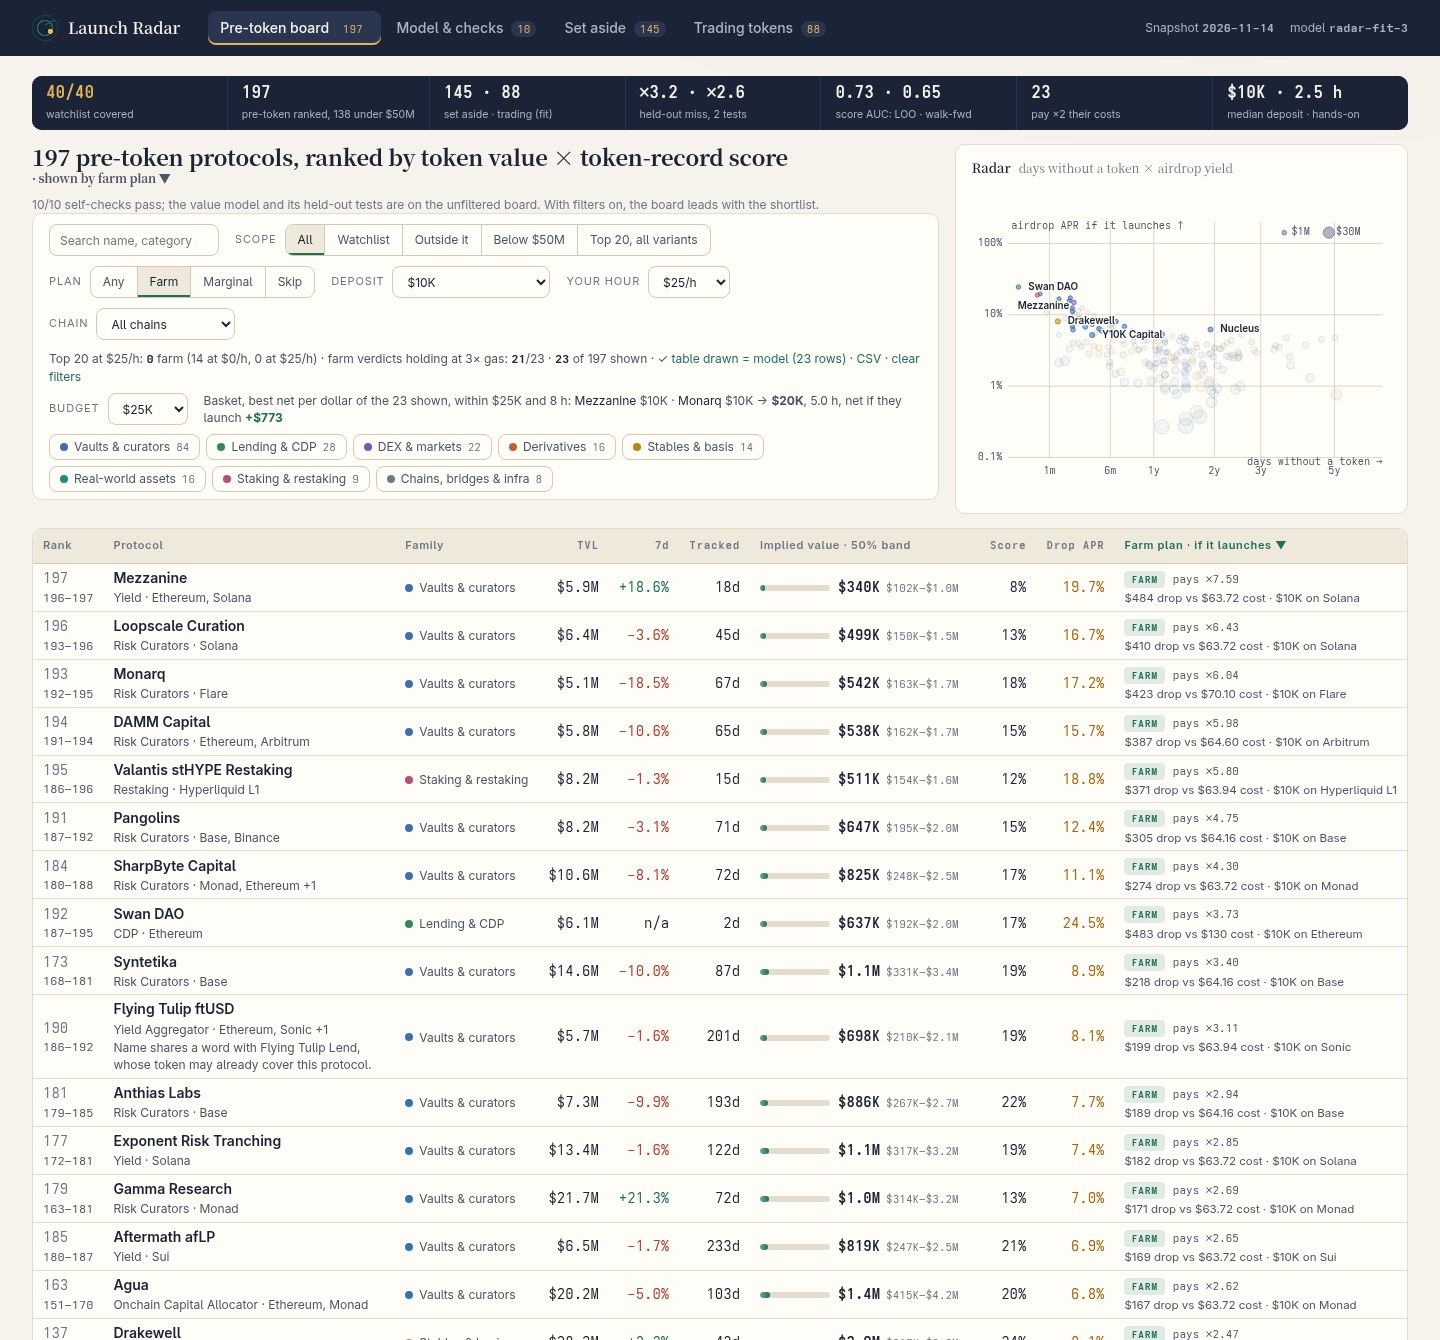
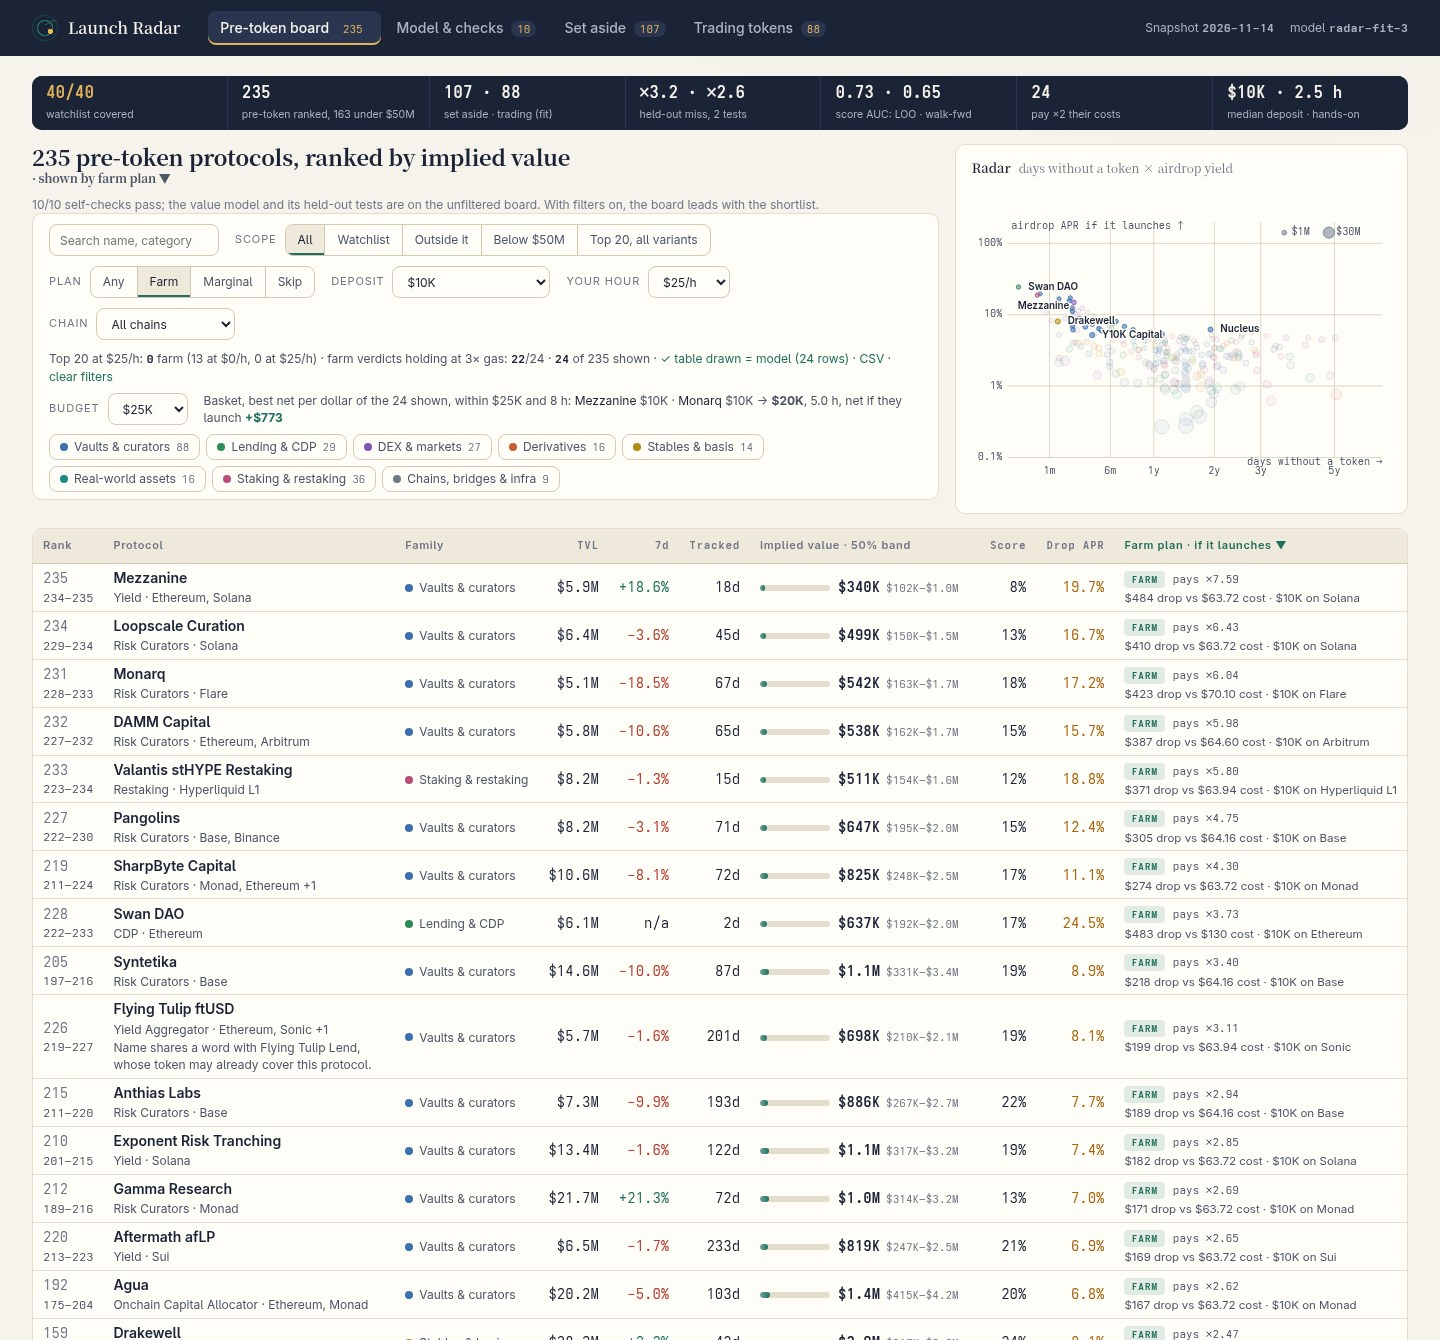
Coverage 2: rank liquid-staking/restaking issuers and versioned pools (the house rule sets them aside; fits unchanged) with a disclosed x0.65 haircut and a flag; 235 ranked, 163 below the floor

diff --git a/dashboard/model.js b/dashboard/model.js
@@ -5,18 +5,19 @@
  var DAY = 86400000;
  var M = {
   version: 'radar-fit-3',
-  ref_tvl: 1e8, // fit reference TVL
+  ref_tvl: 1e8,
   ratio_floor: 0.02, // mcap/TVL clipping
   ratio_cap: 20,
-  growth_floor: -30, // 7-day momentum clipping (%)
+  growth_floor: -30,
   growth_cap: 50,
-  odds_ridge: 1, // L2 penalty of the odds fit: best-calibrated walk-forward of the leave-one-out ties
-  drop_share: 0.10, // assumed share of supply sent to depositors, pro rata to TVL-days
-  farm_days: 90, // the plan's holding window
-  hour_usd: 25, // the reader's hands-on time, priced into every plan
-  carry_rate: 0.04, // a stablecoin savings rate: what the locked capital could earn elsewhere
-  target_cover: 2, // deposit sized so the drop covers gas and time this many times
-  season_days: 365 // TVL-days older than this count as paid by earlier seasons
+  odds_ridge: 1,
+  drop_share: 0.10, // depositor share by TVL-days
+  farm_days: 90,
+  hour_usd: 25,
+  carry_rate: 0.04,
+  target_cover: 2,
+  season_days: 365,
+  product_haircut: 0.65
  };
 
  var FAMILIES = [], FAM_OF = {}, GAS = {}, GAS0 = 0.3, ACT = {};
@@ -35,25 +36,29 @@
   var d = Math.floor((Date.parse(asOf + 'T00:00:00Z') - Date.parse(listed + 'T00:00:00Z')) / DAY);
   return isFinite(d) ? Math.max(0, d) : null;
  }
- // The watchlist's product rule.
- var PRODUCT_CATS = ['Bridge', 'Canonical Bridge', 'Liquid Staking', 'Liquid Restaking', 'Restaked BTC', 'CEX'];
- var VERSIONED = /\s(V\d+(\.\d+)?|v\d+(\.\d+)?|\d+\.\d+)$/;
+ var LIQUID = /^Liquid (Staking|Restaking)$/;
+ var VERSIONED = /\s([Vv]\d+(\.\d+)?|\d+\.\d+)$/;
  var WRAPPED = /\b(wrapped|staked|staking)\b/i;
  var EXCHANGE = /^(Binance|Coinbase|Bybit|Kraken|Bitget|OKX|Bitfinex|Gemini)\b/;
- // First-word matches flag possible token overlap on ranked rows.
  function firstWord(n) { return n.toLowerCase().split(/[\s.-]+/)[0]; }
  function tokenWords(snap) {
   var w = Object.create(null);
   snap.protocols.forEach((p) => { if (hasToken(p) && firstWord(p.name).length >= 3) w[firstWord(p.name)] = p.name; });
   return w;
  }
- function productOf(p) {
+ // The fits use the original product exclusions.
+ function productOf(p, forBoard) {
   if (p.category === 'CEX') return 'exchange';
-  if (PRODUCT_CATS.indexOf(p.category) >= 0 || /bridge/i.test(p.category || '')) return p.category.toLowerCase();
-  if (VERSIONED.test(p.name)) return 'versioned pool';
+  if (p.category === 'Restaked BTC' || /bridge/i.test(p.category || '') || (!forBoard && LIQUID.test(p.category))) return p.category.toLowerCase();
+  if (!forBoard && VERSIONED.test(p.name)) return 'versioned pool';
   if (WRAPPED.test(p.name)) return 'wrapped or staked';
   if (EXCHANGE.test(p.name)) return 'exchange product';
   return null;
+ }
+ function productFlag(p) {
+  if (LIQUID.test(p.category)) return 'liquid-staking issuer: its receipt token is not a governance token; a drop is less certain';
+  var base = p.name.replace(VERSIONED, '');
+  return base !== p.name ? 'a version of ' + base + ': may share its token' : '';
  }
  function bySlug(a, b) { return a.slug < b.slug ? -1 : a.slug > b.slug ? 1 : 0; }
 
@@ -82,7 +87,7 @@
   var full = fitPoints(pts, k);
   pts.forEach((q, i) => { q.fit = Math.round(predict(full, q)); q.loo = q.mcap / Math.exp(miss[i]); });
   var sorted = miss.slice().sort((u, v) => u - v);
-  // Band check: cut the 50% band on some tokens, count how many of the others it holds.
+  // Held-out coverage of the 50% band.
   var hold = (cal, te) => { cal = cal.slice().sort((u, v) => u - v); var a = quantile(cal, 0.25), b = quantile(cal, 0.75); return [te.filter((m) => m >= a && m <= b).length, te.length]; };
   var di = pts.map((q, i) => i).filter((i) => pts[i].p.listed_at).sort((i, j) => pts[i].p.listed_at < pts[j].p.listed_at ? -1 : pts[i].p.listed_at > pts[j].p.listed_at ? 1 : bySlug(pts[i].p, pts[j].p)), dc = Math.floor(di.length * 0.6);
   var bandWf = hold(di.slice(0, dc).map((i) => miss[i]), di.slice(dc).map((i) => miss[i]));
@@ -235,7 +240,7 @@
   return { b: b, all: all, fams: fams };
  }
 
- function value(p, fit, asOf, ageFallback) {
+ function value(p, fit, asOf, ageFallback, haircut) {
   var fam = fit.families[family(p)];
   var growth = clamp(p.change_7d == null ? 0 : p.change_7d, M.growth_floor, M.growth_cap);
   var tvlNext = p.tvl_usd * (1 + growth / 100);
@@ -244,12 +249,12 @@
   var age = ageDays(asOf, p.listed_at), ageUsed = age == null ? ageFallback : age;
   // Token-record score: share of similar peers recording a token today.
   var f0 = fit.odds.F(p, ageUsed), timeF = f0;
-  var implied = Math.max(1, Math.round(fitted * timeF));
+  var implied = Math.max(1, Math.round(fitted * timeF * haircut));
 
   // Drop APR: drop_share of the value over the season's dollar-days.
   var apr = fitted * M.drop_share / (tvlNext * (Math.min(ageUsed, M.season_days) + M.farm_days)) * 365;
   return { slope: fit.slope, family: fam.key, growth: growth, growth_imputed: p.change_7d == null,tvl_next: Math.round(tvlNext), fam_multiple: fam.multiple, size_mult: sizeMult,
-   fitted: Math.round(fitted), age: age, age_used: ageUsed, time_factor: timeF, f0: f0, implied: implied,
+   fitted: Math.round(fitted), age: age, age_used: ageUsed, time_factor: timeF, f0: f0, implied: implied, haircut: haircut,
    low: Math.round(implied * fit.band_low), high: Math.round(implied * fit.band_high), cap_high: Math.round(fitted * fit.band_high), multiple: implied / p.tvl_usd, apr: apr };
  }
 
@@ -266,9 +271,7 @@
 
  var WEEKLY = { dex: [0.0005, 1], deriv: [0.001, 2], predict: [0.01, 2], infra: [0, 2] };
 
- /* A farm plan from the row's own figures: steps with a dollar cost and a time each, on the cheapest of
- * its three main chains. */
- // hour: value of an hour; on: the reader's chain filter.
+ // Use the cheapest of the three main chains unless the reader selects one.
  function farmPlan(p, v, dep, hour, on) {
   var hr = hour == null ? M.hour_usd : hour;
   var main = p.chains.slice(0, 3), chain = main[0] || 'its main chain';
@@ -336,20 +339,20 @@
   snap.watchlist.forEach((s) => { watch[s] = true; });
   var noToken = snap.protocols.filter((p) => !hasToken(p) && p.tvl_usd > 0);
   var words = tokenWords(snap);
-  var pre = noToken.filter((p) => watch[p.slug] || !productOf(p));
-  var products = noToken.map((p) => ({ p: p, kind: productOf(p) })).filter((x) => x.kind && !watch[x.p.slug])
+  var pre = noToken.filter((p) => watch[p.slug] || !productOf(p, true));
+  var products = noToken.map((p) => ({ p: p, kind: productOf(p, true) })).filter((x) => x.kind && !watch[x.p.slug])
    .sort((a, b) => b.p.tvl_usd - a.p.tvl_usd || bySlug(a.p, b.p));
-  var ages = pre.map((p) => ageDays(snap.as_of, p.listed_at)).filter((a) => a != null).sort((a, b) => a - b);
+  var ages = pre.filter((p) => watch[p.slug] || !productOf(p)).map((p) => ageDays(snap.as_of, p.listed_at)).filter((a) => a != null).sort((a, b) => a - b);
   var ageFallback = ages.length ? ages[ages.length >> 1] : 365;
   var rows = pre.map((p) => {
-   var v = value(p, fit, snap.as_of, ageFallback);
-   return { p: p, v: v, plan: farmPlan(p, v), watch: !!watch[p.slug], below: p.tvl_usd < snap.floor_usd, wordMatch: words[firstWord(p.name)] };
+   var flag = productFlag(p), v = value(p, fit, snap.as_of, ageFallback, flag ? M.product_haircut : 1);
+   return { p: p, v: v, plan: farmPlan(p, v), watch: !!watch[p.slug], below: p.tvl_usd < snap.floor_usd, wordMatch: words[firstWord(p.name)], flag: flag };
   });
   rows.sort((a, b) => b.v.implied - a.v.implied || bySlug(a.p, b.p));
   rows.forEach((r, i) => { r.rank = i + 1; });
   // Flip threshold: the TVL multiple, others fixed, at which a row would pass the one above it.
   rows.forEach((r, i) => {
-   var up = i && rows[i - 1].v.implied, at = (f) => value(Object.assign({}, r.p, { tvl_usd: r.p.tvl_usd * f }), fit, snap.as_of, ageFallback).implied, lo = 1, hi = 2, k;
+   var up = i && rows[i - 1].v.implied, at = (f) => value(Object.assign({}, r.p, { tvl_usd: r.p.tvl_usd * f }), fit, snap.as_of, ageFallback, r.v.haircut).implied, lo = 1, hi = 2, k;
    if (!up) return;
    for (k = 0; k < 12 && at(hi) <= up; k++) { lo = hi; hi *= 2; }
    if (at(hi) <= up) return;
@@ -358,8 +361,8 @@
   });
   // Rank crossing: each row's rank under three declared alternatives.
   var F0 = (r, a) => fit.odds.F(Object.assign({}, r.p, { change_7d: 0 }), a);
-  var ALT = { 'without momentum': (r) => { var a = r.v.age_used, f0 = F0(r, a); return r.v.fitted * Math.pow(r.p.tvl_usd / r.v.tvl_next, 1 + fit.slope) * f0; },
-   'score without age': (r) => r.v.fitted * fit.odds.F(r.p, fit.odds.mid),
+  var ALT = { 'without momentum': (r) => r.v.fitted * Math.pow(r.p.tvl_usd / r.v.tvl_next, 1 + fit.slope) * F0(r, r.v.age_used) * r.v.haircut,
+   'score without age': (r) => r.v.fitted * fit.odds.F(r.p, fit.odds.mid) * r.v.haircut,
    'if launched': (r) => r.v.fitted };
   Object.keys(ALT).forEach((k) => { rows.slice().sort((a, b) => ALT[k](b) - ALT[k](a) || bySlug(a.p, b.p)).forEach((r, i) => { (r.alt = r.alt || {})[k] = i + 1; }); });
   // Bootstrap: 40 seeded refits of curve and score.
@@ -369,7 +372,7 @@
    var bs = fit.points.map(() => fit.points[Math.floor(rnd() * fit.points.length)]), bf = fitPoints(bs, fit.k), Fb = fit.odds.boot(rnd);
    rows.map((r) => {
     var qb = Fb(r.p, r.v.age_used);
-    return { r: r, s: r.v.tvl_next * Math.exp(bf.fams[r.v.family].ln + bf.b * Math.log(r.v.tvl_next / M.ref_tvl)) * qb };
+    return { r: r, s: r.v.tvl_next * Math.exp(bf.fams[r.v.family].ln + bf.b * Math.log(r.v.tvl_next / M.ref_tvl)) * qb * r.v.haircut };
    })
     .sort((a, b) => b.s - a.s || bySlug(a.r.p, b.r.p)).forEach((o, i) => { o.r.draws.push(i + 1); if (i < 20) o.r.boot += 1 / 40; });
   }
@@ -378,7 +381,7 @@
   var q = (t) => ages[Math.floor((ages.length - 1) * t)];
   rows.filter((r) => r.v.age == null).forEach((r) => {
    r.ageRange = [q(0.25), q(0.75)].map((a) => {
-    var val = r.v.fitted * fit.odds.F(r.p, a);
+    var val = r.v.fitted * fit.odds.F(r.p, a) * r.v.haircut;
     return { age: a, rank: 1 + rows.filter((o) => o !== r && o.v.implied > val).length };
    });
   });

diff --git a/dashboard/app.js b/dashboard/app.js
@@ -9,7 +9,8 @@
  const FAM = {}; R.FAMILIES.forEach((f) => { FAM[f[0]] = f[1]; });
  const bySlug = Object.create(null); rows.forEach((r) => { bySlug[r.p.slug] = r; });
  const esc = (s) => String(s).replace(/[&<>"']/g, (c) => ({ '&': '&amp;', '<': '&lt;', '>': '&gt;', '"': '&quot;', "'": '&#39;' })[c]);
- const nameFlag = (r) => r.wordMatch ? `<small>Name shares a word with ${esc(r.wordMatch)}, whose token may already cover this protocol.</small>` : '';
+ const nameFlag = (r) => (r.flag ? `<small>${esc(r.flag)}</small>` : '') +
+  (r.wordMatch ? `<small>Name shares a word with ${esc(r.wordMatch)}, whose token may already cover this protocol.</small>` : '');
  const pct = (x, d) => (x == null ? 'n/a' : (x > 0 ? '+' : x < 0 ? '−' : '') + Math.abs(x).toFixed(d == null ? 1 : d) + '%');
  const mult = (x) => '×' + (x >= 10 ? x.toFixed(1) : x >= 1 ? x.toFixed(2) : x.toFixed(3));
  const days = (d) => (d == null ? '?' : d >= 365 ? (d / 365).toFixed(1) + 'y' : d + 'd');
@@ -112,18 +113,19 @@
  }
 
  const O = fit.odds, pc = (x) => (x * 100).toFixed(0) + '%';
+ const eq = `<p class="eq">value = T × ${mult(fit.base)} × (T ÷ $100M)<sup>${fit.slope.toFixed(2)}</sup> × s × h, where h = ${M.product_haircut} for liquid-staking issuers and versioned pools, 1 otherwise</p>`;
  function formula() {
   const T = fit.tests, x = (v) => '×' + v.toFixed(2);
   const used = { flat: 'baseline', spot: 'replaced', size: 'fitted', family: fit.k === Infinity ? 'dropped' : 'k=' + fit.k, growth: 'not used', age: 'via score' };
   return `<div class="card model">
    <h2>Value model <span>fitted on this snapshot's ${fit.n} trading tokens</span></h2>
-   <p class="eq">value = T × ${mult(fit.base)} × (T ÷ $100M)<sup>${fit.slope.toFixed(2)}</sup> × s</p>
+   ${eq}
    <table class="mini tests"><thead><tr><th>Term · held-out median miss</th><th class="num">Leave-one-out</th><th class="num">Walk-fwd</th><th class="num">Family out</th><th class="num">Use</th></tr></thead><tbody>
    ${T.terms.map((t) => `<tr class="${t.ok ? 'pick' : ''}"><td>${t.label}</td><td class="num">${x(t.loo)}</td><td class="num">${x(t.wf)}</td><td class="num">${x(t.lofo)}</td><td class="num">${used[t.key]}</td></tr>`).join('')}</tbody></table>
    <table class="mini tests"><thead><tr><th>Score s · held-out Brier</th><th class="num">Walk-fwd</th><th class="num">Family out</th></tr></thead><tbody>
    ${O.terms.map((t, i) => `<tr class="${i ? '' : 'pick'}"><td>${t[0]}</td><td class="num">${t[1].toFixed(3)}</td><td class="num">${t[2].toFixed(3)}</td></tr>`).join('')}</tbody></table>
    <p class="note">Walk-forward: fit the ${T.wf_train} listed first, score the ${T.wf_n} since ${T.wf_from}. s: a logistic fit on ${O.n} peers (${O.with_token} record a token): AUC ${O.auc_loo.toFixed(2)} leave-one-out, ${O.auc_wf.toFixed(2)} walk-forward, ${O.auc_fam.toFixed(2)} family-out.</p>
-   <p class="note"><b>Missing ages:</b> ${rows.filter((r) => r.ageRange).length} ranked rows have no listing date and use the median age; re-ranked at the 25th and 75th percentile of observed ages they move: ${rows.filter((r) => r.ageRange).map((r) => `${esc(r.p.name)} #${r.ageRange[0].rank}–#${r.ageRange[1].rank}`).join(', ')}.</p>
+   <p class="note"><b>Missing ages:</b> ${rows.filter((r) => r.ageRange).length} rows use the original board's median age. Ranks at its 25th and 75th age percentiles: ${rows.filter((r) => r.ageRange).map((r) => `${esc(r.p.name)} #${r.ageRange[0].rank}–#${r.ageRange[1].rank}`).join(', ')}.</p>
    <p class="note"><b>Not a launch forecast:</b> s scores whether a peer <i>records</i> a token today; the snapshot has no launch dates.</p>
    <p class="note">Leave-one-out miss by TVL band: ${fit.bands.map((b) => `<b>${b.lo ? usd(b.lo) : '$0'}–${b.hi < 1e15 ? usd(b.hi) : '∞'} ×${b.miss.toFixed(1)}</b> (${b.n} tokens; ${rows.filter((r) => r.p.tvl_usd >= b.lo && r.p.tvl_usd < b.hi).length} ranked)`).join(' · ')}.</p></div>`;
  }
@@ -203,8 +205,8 @@
   </section>
   <section class="hero slim">
    <div class="lead">
-    <h1>${rows.length} pre-token protocols, ranked by token value × token-record score${st.sort === 'rank' ? '' : `<small> · shown by ${{ g: '7-day change', age: 'days tracked', odds: 'score', apr: 'drop APR', plan: 'farm plan' }[st.sort] || st.sort} ${st.dir === 'asc' ? '▲' : '▼'}</small>`}</h1>
-    ${active ? `<p class="note">${CHECKS.filter((c) => c[0]).length}/${CHECKS.length} self-checks pass; the value model and its held-out tests are on the <a href="${link(CLEAR)}">unfiltered board</a>. With filters on, the board leads with the shortlist.</p>${ctl}` : `<p class="eq">value = T × ${mult(fit.base)} × (T ÷ $100M)<sup>${fit.slope.toFixed(2)}</sup> × s</p>
+    <h1>${rows.length} pre-token protocols, ranked by implied value${st.sort === 'rank' ? '' : `<small> · shown by ${{ g: '7-day change', age: 'days tracked', odds: 'score', apr: 'drop APR', plan: 'farm plan' }[st.sort] || st.sort} ${st.dir === 'asc' ? '▲' : '▼'}</small>`}</h1>
+    ${active ? `<p class="note">${CHECKS.filter((c) => c[0]).length}/${CHECKS.length} self-checks pass; the value model and its held-out tests are on the <a href="${link(CLEAR)}">unfiltered board</a>. With filters on, the board leads with the shortlist.</p>${ctl}` : `${eq}
     <p class="checkline ${CHECKS.every((c) => c[0]) ? 'ok' : 'bad'}"><b>${CHECKS.filter((c) => c[0]).length}/${CHECKS.length} self-checks pass</b>, run on load: ${[5, 1, 6, 0].map((i) => CHECKS[i][1]).join(' · ')}${CHECKS.filter((c) => !c[0]).map((c) => ' · ✗ ' + c[1]).join('')} · <a href="${link({ view: 'model' })}">all checks →</a></p>${ctl}`}
    </div>
    <div class="card chartcard"><h2>Radar <span>days without a token × airdrop yield</span></h2>${chart(shown, 300)}</div>
@@ -250,6 +252,7 @@
       ${line('Size curve', '(TVL ÷ $100M)<sup>' + fit.slope.toFixed(2) + '</sup>, slope fitted on the ' + fit.n + ' tokens', mult(v.size_mult))}
       ${line('Value if launched', 'what a trading peer of this size is worth', usd(v.fitted), 'sum')}
       ${line('Token-record score s', 'share of peers with this TVL, ' + (v.age == null ? 'median ' + v.age_used : v.age) + ' days tracked, 7-day change and family that record a token', pc(v.time_factor))}
+      ${r.flag ? line('Product haircut', esc(r.flag), '×' + v.haircut.toFixed(2)) : ''}
       ${line('Implied value', 'rank ' + r.rank + ' of ' + rows.length + ' on this number', usd(v.implied), 'total')}
      </table>
      <div class="scale">
@@ -288,7 +291,7 @@
  }
  function aside() {
   return `<section class="intro"><h1>${radar.products.length} products set aside</h1>
-   <p>These protocols record no token and match the watchlist's category or product-name exclusions.</p></section>
+   <p>These protocols record no token and match the board's bridge, exchange, Restaked BTC, or wrapped or staked product exclusions.</p></section>
    <div class="tablewrap">${tbl('board', ['Product', 'Why set aside', '#TVL', '#7d'], radar.products.map((x) => [nm(x.p.name, x.p.chains.slice(0, 3).join(', ')), `<span class="tag">${esc(x.kind)}</span>`, usd(x.p.tvl_usd), pct(x.p.change_7d)]))}</div>`;
  }
 
@@ -309,7 +312,7 @@
   app.innerHTML = st.p ? (bySlug[st.p] && bySlug[st.vs] ? compare(bySlug[st.p], bySlug[st.vs]) : detail(st)) : st.view === 'model' ? model() : st.view === 'aside' ? aside() : st.view === 'trading' ? trading() : board(st);
   const d = document.getElementById('drawn'), sh = d && filtered(st), trs = [...app.querySelectorAll('tr[data-slug]')];
   if (d) { const ok = trs.length === sh.length && trs.every((t, i) => t.dataset.slug === sh[i].p.slug && t.querySelector('td.val b').textContent === usd(sh[i].v.implied)); d.className = ok ? 'up' : 'down'; d.textContent = ok ? `✓ table drawn = model (${trs.length} rows)` : '✗ table drawn ≠ model'; }
-  document.getElementById('foot').innerHTML = `Source: ${esc(S.source)}. Floor $${(S.floor_usd / 1e6).toFixed(0)}M. Implied value = the radar's own value if launched × its token-record score; never make.fun's claim. A protocol may hold a token DefiLlama does not record.`;
+  document.getElementById('foot').innerHTML = `Source: ${esc(S.source)}. Floor $${(S.floor_usd / 1e6).toFixed(0)}M. Implied value = this entry's value if launched × token-record score × any product haircut. A protocol may hold a token DefiLlama does not record.`;
   if (st.p) window.scrollTo(0, 0);
  }
  app.addEventListener('input', (e) => {
